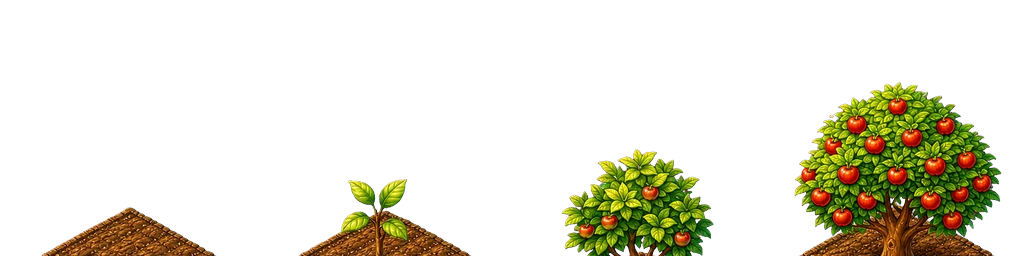
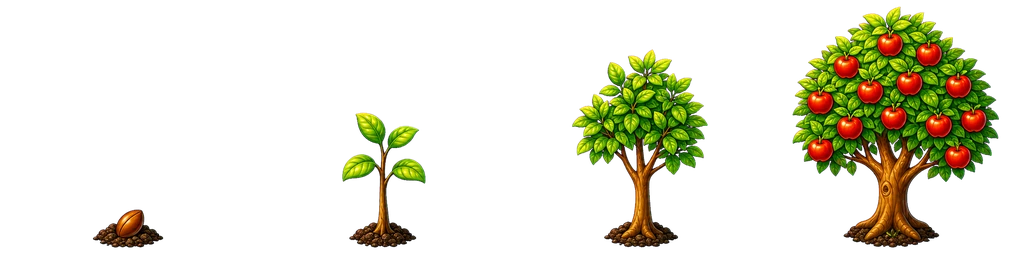
種田改開心農場風：深色土畦網格+完整作物（土與植株分離）
- 新 plot.webp 深色空土畦(開心農場風)鋪滿 6 等距格、隱藏舊大田犁溝底
- 6 作物全重生為「完整植株」(無 iso 土磚、根莖類露根)疊在土畦上、4 階成長
- 解決根莖類被切(胡蘿蔔橘根/地瓜塊莖完整)＋開心農場分格效果＋移除綠線
- crop.js?v=4、crop sheet ?v=4

diff --git a/village-web/crop.js b/village-web/crop.js
@@ -125,7 +125,7 @@
 
   // ---------- 世界裡的田地管理 ----------
   const Farm = {
-    scene: null, slots: [], plotXY: [], onUpdate: null, _attached: false, _pending: {},
+    scene: null, slots: [], plotXY: [], plotSprites: [], onUpdate: null, _attached: false, _pending: {}, _plotScale: 1,
 
     // 沿大田菱形「等距(iso)」方向切 3 欄 x 2 列 = 六等份，每格正中央一個座標。
     // 跟著 field_iso 的位置/大小/旋轉走（地圖編輯器移田，作物與分隔線自動跟）。
@@ -150,26 +150,33 @@
       for (const t of T) for (const s of S) this.plotXY.push(this.isoPoint(s, t));
     },
 
-    // 在田上畫六等份的草綠走道分隔線（s=1/3,2/3 兩條欄界 + t=1/2 一條列界）
-    drawDividers() {
-      if (this.dividers) { this.dividers.destroy(); this.dividers = null; }
-      if (!this._geom || !this.scene) return;
-      const g = this.scene.add.graphics();
-      g.setDepth(1.6);                          // 田(1)之上、玩家/作物之下
-      const lo = 0.05, hi = 0.95;
-      const line = (a, b, w, col, al) => { g.lineStyle(w, col, al); g.lineBetween(a.x, a.y, b.x, b.y); };
-      [1 / 3, 2 / 3].forEach((s) => {           // 兩條欄界(固定 s)
-        line(this.isoPoint(s, lo), this.isoPoint(s, hi), 11, 0x5d4524, 0.30);   // 下方陰影
-        line(this.isoPoint(s, lo), this.isoPoint(s, hi), 7, 0x9cbb56, 0.92);    // 草綠走道
+    // 開心農場土畦：載入深色空土畦圖(單張 image，繞 loader race)
+    ensurePlotTex() {
+      const sc = this.scene, key = "cropplot";
+      if (!sc || sc.textures.exists(key) || this._pending[key]) return;
+      const token = {}; this._pending[key] = token;
+      const img = new Image();
+      img.onload = () => { if (this._pending[key] === token) delete this._pending[key]; if (this.scene && !this.scene.textures.exists(key)) this.scene.textures.addImage(key, img); };
+      img.onerror = () => { if (this._pending[key] === token) delete this._pending[key]; };
+      img.src = "plot.webp?v=1";
+    },
+    // 6 格各鋪一塊空土畦(永遠在)，並隱藏舊大田犁溝底；土畦大小依格距
+    makePlots() {
+      const sc = this.scene;
+      if (!sc || !sc.textures.exists("cropplot") || !this.plotXY.length || this.plotSprites.length) return;
+      const f = sc.children.list.find((o) => o.texture && o.texture.key === "field_iso.webp");
+      if (f) f.setVisible(false);   // 隱藏舊大田(留作定位錨)
+      const a = this.plotXY[0], b = this.plotXY[1];
+      const pitch = Math.hypot(b.x - a.x, b.y - a.y);
+      const natW = sc.textures.get("cropplot").getSourceImage().width || 420;
+      this._plotScale = (pitch * 1.34) / natW;   // 略大於格距→土畦緊貼幾乎無縫
+      this.plotXY.forEach((p) => {
+        const im = sc.add.image(p.x, p.y, "cropplot").setOrigin(0.5, 0.5).setScale(this._plotScale).setDepth(p.y);
+        this.plotSprites.push(im);
       });
-      [1 / 2].forEach((t) => {                  // 一條列界(固定 t)
-        line(this.isoPoint(lo, t), this.isoPoint(hi, t), 11, 0x5d4524, 0.30);
-        line(this.isoPoint(lo, t), this.isoPoint(hi, t), 7, 0x9cbb56, 0.92);
-      });
-      this.dividers = g;
     },
 
-    spriteScale(srcH) { return (FRAME * 0.46) / srcH; },   // 田格作物顯示大小(縮小以塞進六等份各格)
+    spriteScale() { const g = this._geom; return (g ? Math.hypot(g.HW, g.HH) / 3 * 1.55 : 130) / FRAME; },   // 作物高 ≈ 1.55 格距
 
     // 載入作物 sheet：完全繞開 scene 共用 LoaderPlugin（與 farm.js 共用會 race），
     // 改用瀏覽器原生 Image 各自平行載入 → 載好用 textures.addSpriteSheet 註冊。零 loader 競爭。
@@ -189,16 +196,15 @@
           }
         };
         img.onerror = () => { if (this._pending[key] === token) delete this._pending[key]; };
-        img.src = CROPS[ck].sheet + "?v=2";
+        img.src = CROPS[ck].sheet + "?v=4";
       });
     },
 
     attach(scene) {
       this.detach();
-      this.scene = scene; this.slots = new Array(PLOTS).fill(null); this._pending = {};
+      this.scene = scene; this.slots = new Array(PLOTS).fill(null); this.plotSprites = []; this._pending = {};
       this.computePlots();
-      this.drawDividers();   // 田上畫六等份草綠走道
-      // 不再用單一 syncAll/ensureSheet（會被 loader race 坑）；改由 update() 每幀自癒建立 sprite
+      // 土畦/作物都由 update() 每幀自癒建立(繞 loader race)
       this.onUpdate = () => this.update();
       scene.events.on("update", this.onUpdate);
       scene.events.once("shutdown", () => this.detach());
@@ -207,7 +213,8 @@
     detach() {
       if (this.scene && this.onUpdate) this.scene.events.off("update", this.onUpdate);
       this.slots.forEach((s) => { if (s) { if (s.spr) s.spr.destroy(); if (s.shadow) s.shadow.destroy(); } });
-      if (this.dividers) { this.dividers.destroy(); this.dividers = null; }
+      this.plotSprites.forEach((im) => im && im.destroy());
+      this.plotSprites = [];
       this.slots = []; this.onUpdate = null; this._pending = {};
       if (this.scene) this.scene.__cropAttached = false;
       this.scene = null; this._attached = false;
@@ -223,11 +230,10 @@
       const key = "crop_" + rec.crop, idx = stageIndex(rec);
       if (!sc.textures.exists(key)) return;   // 貼圖還沒好→下一幀自癒重試（update 會批次排載），絕不建 __MISSING
       if (!s) {
-        const shadow = sc.add.ellipse(p.x, p.y, 46, 15, 0x000000, 0.22);
-        const spr = sc.add.sprite(p.x, p.y, key, idx).setOrigin(0.5, 0.92);
-        const srcH = sc.textures.get(key).getSourceImage().height || FRAME;
-        spr.setScale(this.spriteScale(srcH));
-        s = this.slots[i] = { spr, shadow, crop: rec.crop, idx: -1, srcH };
+        // 作物底部那撮土坐在土畦『中心』→ origin 偏下、位置在 plotXY(畦中心)
+        const spr = sc.add.sprite(p.x, p.y, key, idx).setOrigin(0.5, 0.86);
+        spr.setScale(this.spriteScale());
+        s = this.slots[i] = { spr, crop: rec.crop, idx: -1 };
       }
       if (s.crop !== rec.crop) { s.spr.setTexture(key, idx); s.crop = rec.crop; s.idx = idx; }
       if (s.idx !== idx) { s.spr.setFrame(idx); s.idx = idx; }
@@ -235,7 +241,7 @@
       if (idx === 3) {
         if (!s._inter) { s.spr.setInteractive(); s.spr.on("pointerdown", () => this.harvest(i)); s._inter = true; }
       } else if (s._inter) { s.spr.disableInteractive(); s._inter = false; }
-      s.spr.setDepth(s.spr.y); s.shadow.setDepth(s.spr.y - 1);
+      s.spr.setDepth(p.y + 1);   // 疊在自己那塊土畦(depth=p.y)之上
     },
 
     harvest(i) {
@@ -260,6 +266,8 @@
 
     update() {
       if (!this.scene) return;
+      this.ensurePlotTex();   // 土畦圖
+      this.makePlots();       // 6 塊空土畦(載好+座標好就建、隱藏舊大田)
       const data = loadCrops();
       // 先批次確保需要的作物貼圖載入（idle 時一次排完）
       const needed = [];
@@ -310,7 +318,7 @@
 
   function stageImg(crop, idx) {
     // 從 spritesheet 切一格當預覽（用 background-position）
-    return '<span class="pic" style="display:inline-block;background:url(' + CROPS[crop].sheet + '?v=2) -' + (idx * 52) + 'px 0/' + (52 * FRAMES) + 'px 52px no-repeat"></span>';
+    return '<span class="pic" style="display:inline-block;background:url(' + CROPS[crop].sheet + '?v=4) -' + (idx * 52) + 'px 0/' + (52 * FRAMES) + 'px 52px no-repeat"></span>';
   }
 
   function renderGrid(body) {
@@ -393,7 +401,7 @@
   function stagePreviewImg(crop, step) {
     // 進行中→顯示當前動作美術(擺動)；3 步完成→顯示幼苗預告
     if (step >= 3) {
-      return '<img src="' + CROPS[crop].sheet + '?v=2" style="object-position:-150px 0;width:' + (150 * FRAMES) + 'px;max-width:none;left:0">';
+      return '<img src="' + CROPS[crop].sheet + '?v=4" style="object-position:-150px 0;width:' + (150 * FRAMES) + 'px;max-width:none;left:0">';
     }
     return '<img class="crop-action-art" src="' + STEPS[step].img + '?v=1" alt="' + STEPS[step].label + '">';
   }

diff --git a/village-web/index.html b/village-web/index.html
@@ -97,7 +97,7 @@
 <script src="dex_cards.js?v=3"></script>
 <script src="shop.js?v=104"></script>
 <script src="farm.js?v=13"></script>
-<script src="crop.js?v=3"></script>
+<script src="crop.js?v=4"></script>
 <!-- 多人整合（feature flag）：?mp=1 才載 colyseus + mp.js，否則完全是原本單機 demo -->
 <script>if(new URLSearchParams(location.search).get("mp")==="1"){document.write('<script src="colyseus.bundle.js"><\/script><script src="mp.js?v=30"><\/script>');}</script>
 <script src="explore.js?v=131"></script>
